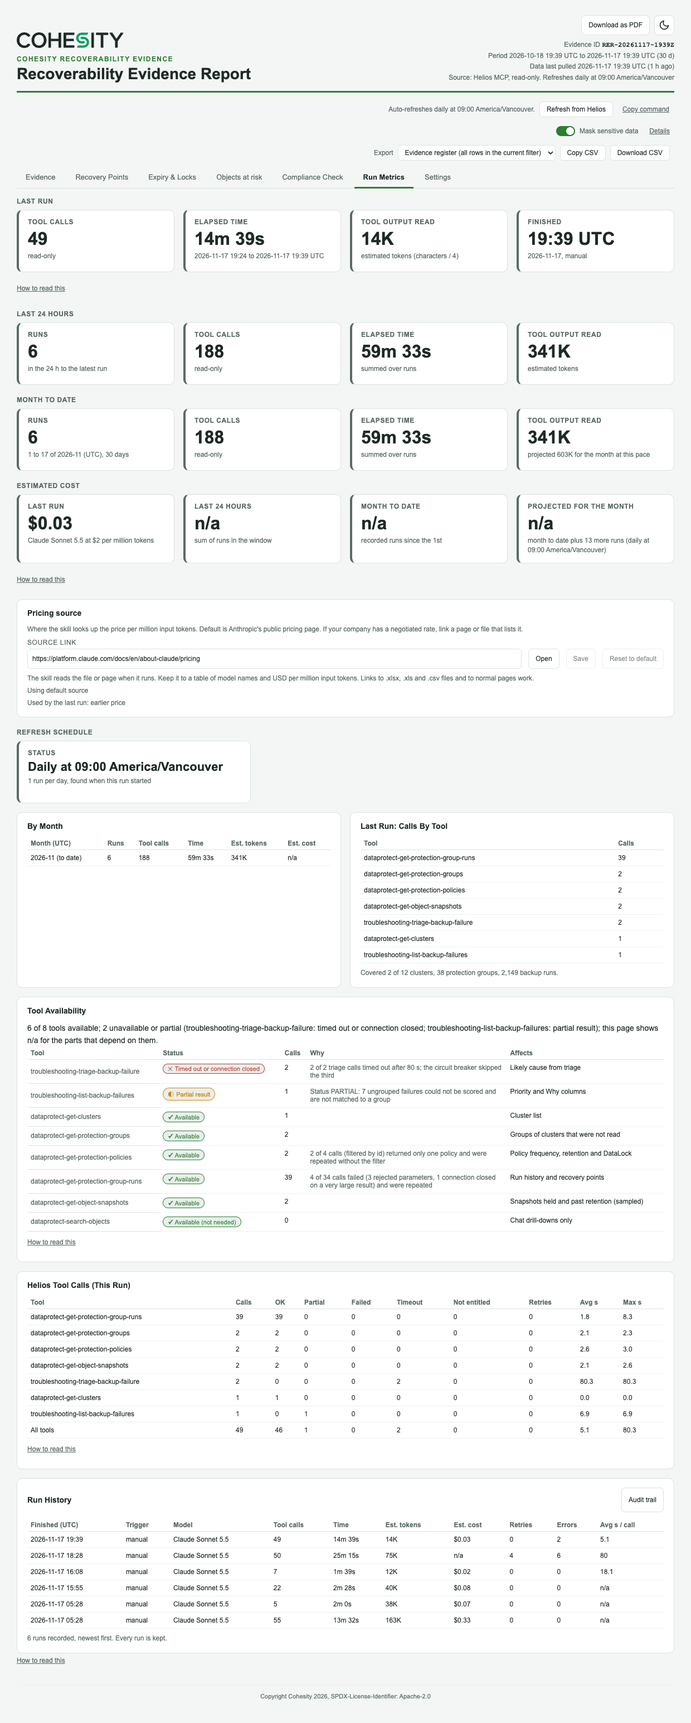
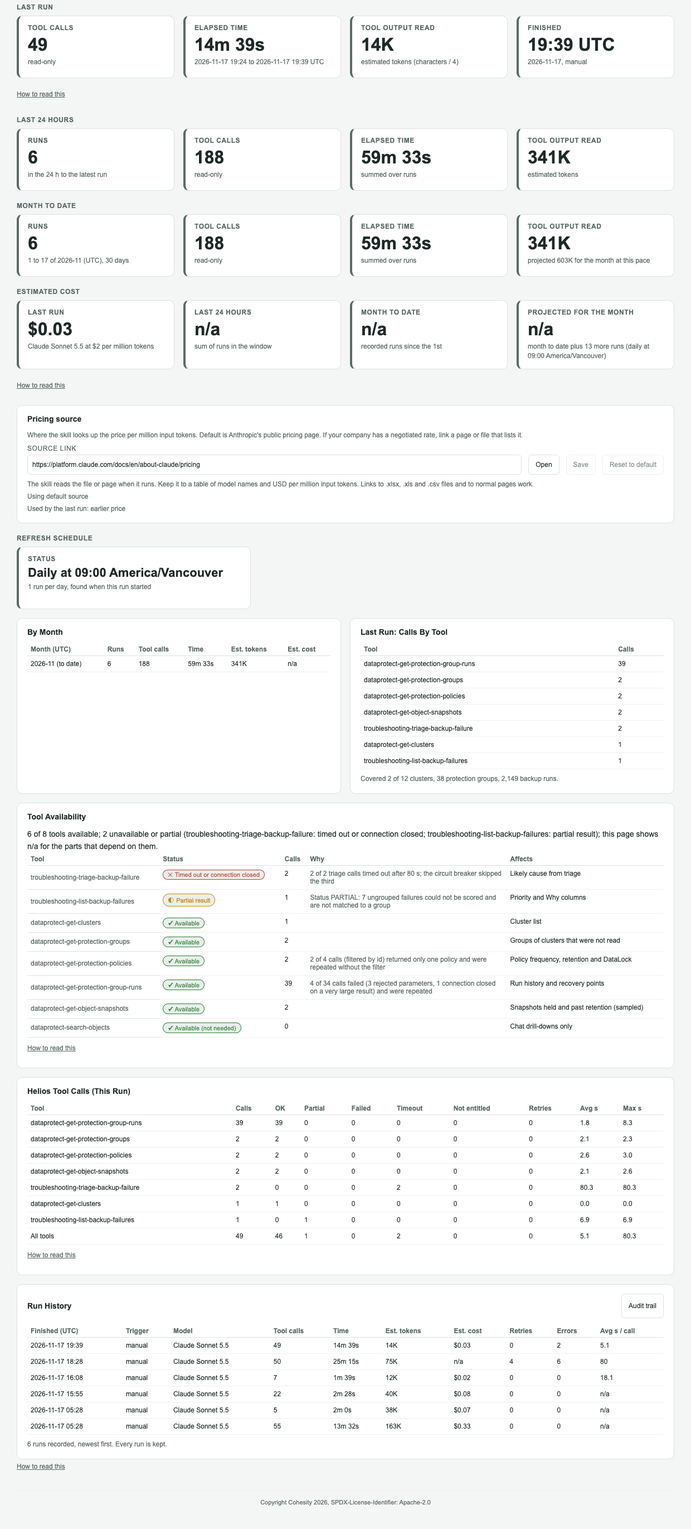
Shared screenshots cropped below tab bar, Fleet-style Run Metrics, Compliance pager

diff --git a/claude/Cohesity-Chargeback-Report/SKILL.md b/claude/Cohesity-Chargeback-Report/SKILL.md
@@ -447,13 +447,6 @@ td.ovr{font-weight:700}
 .dim{color:var(--muted)}
 .empty{padding:22px;color:var(--muted);text-align:center}
 .foot{font-size:12px;color:var(--muted);line-height:1.6;margin-top:14px;max-width:110ch}
-.avc{display:inline-flex;gap:6px;align-items:center;border:1px solid var(--border);border-radius:999px;padding:2px 10px;font-size:12px;font-weight:600;white-space:nowrap;color:var(--text)}
-.avc i{font-style:normal;font-weight:700}
-.avc.ok{border-color:var(--sel)}.avc.ok i{color:var(--sel)}
-.avc.warn{border-color:var(--accent)}.avc.warn i{color:var(--accent)}
-.avc.bad{border-color:var(--red,#c0392b)}.avc.bad i{color:var(--red,#c0392b)}
-.avc.na{border-style:dashed}
-#pane-meter td.avw{max-width:340px;overflow-wrap:anywhere;color:var(--muted)}
 .errbar{background:var(--card,#fff);color:var(--red,#c0392b);border:1px solid var(--red,#c0392b);border-left:4px solid var(--red,#c0392b);border-radius:8px;padding:10px 14px;margin:0 0 16px;font-size:13px;line-height:1.5}
 .rfr{display:flex;justify-content:flex-end;align-items:center;gap:8px;flex-wrap:wrap;margin:0 0 12px;font-size:12px;color:var(--muted,#5b6a67)}.rfr button,.rfr a.rfbtn{background:var(--card,#fff);color:var(--text,#1f2a28);border:1px solid var(--border,#dbe3e0);border-radius:6px;padding:6px 12px;font-size:12px;cursor:pointer}.rfr button:focus-visible,.rfr a.rfbtn:focus-visible{outline:2px solid var(--green,#2e7d32);outline-offset:2px}.rfr a.rfbtn{display:inline-block;text-decoration:none;font-family:system-ui,-apple-system,"Segoe UI",Arial,sans-serif;line-height:normal}.rfr button:disabled{opacity:.55;cursor:not-allowed}#rfc{background:transparent;border-color:transparent;color:var(--muted,#5b6a67);text-decoration:underline}.rfr input{font:12px "Courier New",monospace;background:var(--card,#fff);color:var(--text,#1f2a28);border:1px solid var(--border,#dbe3e0);border-radius:6px;padding:5px 8px;width:300px;max-width:100%}
 .tabs{display:flex;flex-wrap:wrap;gap:0 4px;border-bottom:1px solid var(--border);margin-bottom:16px;overflow:visible}
@@ -467,7 +460,7 @@ td.ovr{font-weight:700}
 .sub{font-size:12px;color:var(--muted)}
 #pane-comp .cwhy{font-size:13px;line-height:1.6;margin:0 0 10px;max-width:900px}
 #pane-comp .cmh{margin:10px 0 6px;font-size:13px;font-weight:600;color:var(--text)}
-#pane-comp .tw,#pane-meter .tw{border:0;border-radius:0;background:none}#pane-comp table{min-width:0}
+#pane-comp .tw{border:0;border-radius:0;background:none}#pane-comp table{min-width:0}
 #pane-comp td.sv{font-weight:700;white-space:nowrap}#pane-comp td.sv.critical,#pane-comp td.sv.high{color:var(--red)}#pane-comp td.sv.medium,#pane-comp td.sv.low{color:var(--amber)}
 #pane-comp td.cx{font-family:ui-monospace,"SF Mono",Menlo,Consolas,monospace;font-size:11px;overflow-wrap:anywhere;max-width:260px}
 #pane-comp td.wy{max-width:280px;color:var(--muted)}
@@ -499,9 +492,6 @@ body.pdfmode .cfpg{display:none!important}
 #gt{width:90px;border-radius:8px;border-left:1px solid var(--border)}
 .sec{margin:20px 0 8px;font-size:12px;font-weight:600;color:var(--muted);text-transform:uppercase;letter-spacing:.05em}
 .sec:first-child{margin-top:0}
-#pane-meter .foot{max-width:none}
-#pane-meter table{min-width:0}
-#pane-meter td.num{font-variant-numeric:tabular-nums;white-space:nowrap}
 header{display:flex;justify-content:space-between;align-items:flex-end;gap:16px;flex-wrap:wrap;padding-bottom:14px;border-bottom:3px solid var(--green);margin-bottom:16px}
 .meta{text-align:right;font-size:12px;color:var(--muted);line-height:1.6}
 .hr{display:flex;flex-direction:column;align-items:flex-end;gap:8px}
@@ -664,9 +654,6 @@ a.set-btn{text-decoration:none;box-sizing:border-box;text-align:center}
 }
 @media print{#set-dlg,.dlg-ov{display:none!important}}
 /* Audit trail pop-up and Pricing source card (tokens only) */
-.card .chd{display:flex;flex-wrap:wrap;align-items:center;justify-content:space-between;gap:8px 16px;margin:0 0 10px}.card .chd h2{margin:0}
-.abtn{background:var(--card,#fff);color:var(--text,#1f2a28);border:1px solid var(--border,#dbe3e0);border-radius:6px;padding:6px 12px;min-height:44px;font:inherit;font-size:12px;cursor:pointer}
-.abtn:hover:not(:disabled){background:var(--hover,#f2f7f5)}.abtn:focus-visible{outline:2px solid var(--sel,#1f7a6d);outline-offset:2px}.abtn:disabled{opacity:.55;cursor:not-allowed}
 body.aud-lock{overflow:hidden}
 #aud-dlg,#aud-dlg *{box-sizing:border-box}
 #aud-dlg{padding:0;border:1px solid var(--border,#dbe3e0);border-radius:10px;background:var(--card,#fff);color:var(--text,#1f2a28);width:calc(100% - 24px);max-width:1100px;max-height:calc(100% - 24px);font-size:13px;line-height:1.55}
@@ -705,31 +692,76 @@ body.aud-lock{overflow:hidden}
 #aud-dlg .aud-f{flex:none;display:flex;flex-wrap:wrap;gap:8px;align-items:center;justify-content:flex-end;padding:12px 18px;border-top:1px solid var(--border,#dbe3e0);background:var(--card,#fff)}
 #aud-dlg .aud-f .aud-dm{margin-right:auto;font-size:12px;color:var(--muted,#5b6a67)}
 @media(max-width:700px){#aud-dlg .aud-h,#aud-dlg .aud-b,#aud-dlg .aud-f{padding:12px}#aud-dlg .afb label{flex:1 1 100%}#aud-dlg .afb select,#aud-dlg .afb input{min-height:44px;width:100%}#aud-dlg .afb .abtn{width:100%}#aud-dlg .aud-f .abtn{flex:1 1 100%}}
-.prc .fbar{display:flex;flex-wrap:wrap;gap:8px 12px;align-items:flex-end;margin:8px 0}
-.prc .fbar label{flex:1 1 320px;min-width:0;font-size:12px;letter-spacing:.05em;text-transform:uppercase;color:var(--muted);display:flex;flex-direction:column;gap:4px}
-.prc .fbar input{width:100%;min-height:36px;min-width:0;max-width:100%;background:var(--card);color:var(--text);border:1px solid var(--border);border-radius:6px;padding:6px 8px;font:inherit;font-size:12px;text-transform:none;letter-spacing:0}
-.prc .fbar input:focus-visible{outline:2px solid var(--sel);outline-offset:2px}
-.prc input[readonly]{opacity:.8}
-.prc p.sub{margin:4px 0 0;line-height:1.5;overflow-wrap:anywhere}
-#pane-meter .btn,#pane-meter .btn.aub{display:inline-flex;align-items:center;min-height:36px;padding:6px 12px;border:1px solid var(--border);border-radius:6px;background:var(--card);color:var(--text);font:inherit;font-size:12px;font-weight:400;text-decoration:none;cursor:pointer}
-#pane-meter .btn:hover:not(:disabled){background:var(--hover)}
-#pane-meter .btn:focus-visible{outline:2px solid var(--sel);outline-offset:2px}
-#pane-meter .btn:disabled{opacity:.55;cursor:not-allowed}
-#pane-meter .btn[hidden]{display:none}
-#pane-meter table{font-size:12px;min-width:0}
-#pane-meter th{font-size:12px;font-weight:600;letter-spacing:0;text-transform:none;color:var(--muted);padding:4px 6px;border-bottom:1px solid var(--border);white-space:nowrap}
-#pane-meter td{padding:7px 6px;border-bottom:1px solid var(--rule);vertical-align:top}
-#pane-meter .tw.sc{max-height:460px}
-#pane-meter .card h2{margin:0 0 12px;font-size:14px;font-weight:700}
-#pane-meter .chd{gap:12px;margin:0 0 12px}
-#pane-meter .foot{margin-top:8px;font-size:12px;line-height:1.6}
-#pane-meter td.mo{white-space:nowrap;min-width:9.5em;font-variant-numeric:tabular-nums}
-#pane-meter tr.tot td{font-weight:700}
 details.how>summary{display:inline-flex;align-items:center;list-style:none;padding:0 2px}
 details.how>summary::-webkit-details-marker{display:none}
 details.how>summary::before{content:"\25B8";display:inline-block;margin-right:6px}
 details.how[open]>summary::before{content:"\25BE"}
-@media(max-width:600px){#pane-meter .btn,#pane-meter .btn.aub{min-height:44px}.prc .fbar .btn{flex:1 1 auto}details.how>summary{min-height:44px}}
+@media(max-width:600px){details.how>summary{min-height:44px}}
+/* Run Metrics pane: the Fleet Health rules (same declarations; Fleet's page-wide selectors are prefixed with :where(#pane-meter) so the specificity order inside the pane is Fleet's) */
+#pane-meter,#aud-dlg{font-family:Arial,Helvetica,sans-serif}
+:where(#pane-meter) p{font-size:13px;line-height:1.55;margin:0}
+:where(#pane-meter) .grid{display:grid;gap:16px;margin:0 0 16px}
+:where(#pane-meter) .g2{grid-template-columns:repeat(2,minmax(0,1fr))}
+@media(max-width:900px){:where(#pane-meter) .g2{grid-template-columns:repeat(2,minmax(0,1fr))}}
+@media(max-width:600px){:where(#pane-meter) .g2{grid-template-columns:minmax(0,1fr)}}
+:where(#pane-meter) .card{background:var(--card);border:1px solid var(--border);border-radius:10px;padding:16px 18px;min-width:0;margin:0}
+:where(#pane-meter) .card h2{margin:0 0 12px;font-size:14px;font-weight:700}
+:where(#pane-meter) .sub{font-size:12px;color:var(--muted)}
+:where(#pane-meter) .tw{overflow-x:auto;border:0;border-radius:0;background:none}
+:where(#pane-meter) table{width:100%;border-collapse:collapse;font-size:12px;min-width:0}
+:where(#pane-meter) th{text-align:left;color:var(--muted);font-weight:600;padding:4px 6px;border-bottom:1px solid var(--border);font-size:inherit;letter-spacing:normal;text-transform:none}
+:where(#pane-meter) td{padding:7px 6px;border-bottom:1px solid var(--rule);vertical-align:top}
+:where(#pane-meter) td.num{font-variant-numeric:tabular-nums;white-space:nowrap}
+:where(#pane-meter) td.msg{max-width:300px;color:var(--muted);overflow-wrap:anywhere}
+:where(#pane-meter) .chip{display:inline-block;background:var(--chip);border:1px solid var(--border);border-radius:999px;padding:2px 8px;font-size:11px;white-space:nowrap}
+:where(#pane-meter) .chip.hot{border-color:var(--red);color:var(--red)}
+:where(#pane-meter) .triage{margin-bottom:16px}
+:where(#pane-meter) .fbar{display:flex;flex-wrap:wrap;gap:8px 12px;align-items:flex-end;margin:0 0 10px}
+:where(#pane-meter) .fbar label{font-size:12px;font-weight:600;letter-spacing:.05em;text-transform:uppercase;color:var(--muted);display:flex;flex-direction:column;gap:4px}
+:where(#pane-meter) .fbar select,:where(#pane-meter) .fbar input{background:var(--card);color:var(--text);border:1px solid var(--border);border-radius:6px;padding:6px 8px;font:inherit;font-size:12px;min-width:0;max-width:100%}
+:where(#pane-meter) .fbar input{width:170px}
+:where(#pane-meter) .fbar select:focus-visible,:where(#pane-meter) .fbar input:focus-visible{outline:2px solid var(--green);outline-offset:2px}
+:where(#pane-meter) .tw.sc{max-height:440px;overflow:auto}
+:where(#pane-meter) .tw.sc thead th{position:sticky;top:0;background:var(--card);z-index:1}
+:where(#pane-meter) .foot{font-size:11px;color:var(--muted);margin-top:8px;line-height:1.6;max-width:none}
+:where(#pane-meter) .kit.stat{margin:0}
+:where(#pane-meter) td.gn{font-weight:600;overflow-wrap:anywhere}
+:where(#pane-meter) .chip.amb{border-color:var(--amber);color:var(--amber)}
+:where(#pane-meter) .chip.ok{border-color:var(--green);color:var(--green)}
+:where(#pane-meter) .full{margin-bottom:16px}
+:where(#pane-meter) th{white-space:nowrap}
+:where(#pane-meter) #mbm td:first-child{white-space:nowrap;min-width:116px}
+:where(#pane-meter) #tas,:where(#pane-meter) #mavs{margin:0 0 8px;line-height:1.5}
+:where(#pane-meter) tr.tot td{font-weight:700}
+:where(#pane-meter) #mman{margin:8px 0 0}
+:where(#pane-meter) details.how{margin:0 0 16px;border:1px solid var(--border);border-radius:10px;background:var(--card);padding:0 14px;font-size:inherit;color:inherit}
+:where(#pane-meter) details.how>summary{display:flex;align-items:center;min-height:44px;cursor:pointer;list-style:none;font-size:12px;color:var(--muted);padding:0;margin:0}
+:where(#pane-meter) details.how[open]>summary{margin-bottom:0}
+:where(#pane-meter) details.how>summary::-webkit-details-marker{display:none}
+:where(#pane-meter) details.how>summary::before{content:"\25B8";display:inline-block;width:14px;margin-right:0;color:var(--muted)}
+:where(#pane-meter) details.how[open]>summary::before{content:"\25BE"}
+:where(#pane-meter) details.how>summary:focus-visible{outline:2px solid var(--green);outline-offset:2px;border-radius:4px}
+:where(#pane-meter) details.how>.foot,:where(#pane-meter) details.how>p{margin:0 0 12px}
+:where(#pane-meter) .card details.how{border:0;background:none;padding:0;margin:6px 0 0}
+:where(#pane-meter) .card details.how>.foot{margin:0 0 6px}
+/* Audit trail button, Pricing source card (Fleet) */
+.chh{display:flex;justify-content:space-between;align-items:center;gap:12px;flex-wrap:wrap;margin:0 0 12px}.chh h2{margin:0!important}
+.abtn{display:inline-flex;align-items:center;justify-content:center;min-height:36px;padding:6px 12px;background:var(--card);color:var(--text);border:1px solid var(--border);border-radius:6px;font:inherit;font-size:12px;line-height:1.3;text-decoration:none;cursor:pointer}
+.abtn:hover:not(:disabled){background:var(--hover)}
+.abtn:focus-visible{outline:2px solid var(--green);outline-offset:2px}
+.abtn:disabled{opacity:.55;cursor:not-allowed}
+.abtn.pri{background:var(--green);color:var(--bg);border-color:var(--green);font-weight:700}
+a.abtn:visited{color:var(--text)}a.abtn.off{opacity:.55;pointer-events:none}
+.prc .fbar{align-items:flex-end;margin:8px 0}
+.prc .fbar label{flex:1 1 320px;min-width:0}
+.prc .fbar input{width:100%;min-height:36px}
+.prc .abtn:disabled{opacity:.55;cursor:not-allowed}
+.prc input[readonly]{opacity:.8}
+.prc p.sub{margin:4px 0 0;line-height:1.5;overflow-wrap:anywhere}
+.prc p.sub.bad{font-weight:700;color:var(--red)}
+@media(max-width:600px){.abtn{min-height:44px}.prc .fbar .abtn{flex:1 1 auto}}
+#aud-dlg .abtn{min-height:44px}
+body.pdfmode .abtn{display:none!important}
 body.pdfmode .prc .fbar,body.pdfmode .prc #prc-h,body.pdfmode .prc #prc-ro{display:none!important}
 @media print{.prc .fbar{display:none!important}}
 body.pdfmode #aud-dlg,body.pdfmode .aud-ov,body.pdfmode .pdfhid{display:none!important}
@@ -977,24 +1009,24 @@ if(rc)rc.addEventListener('click',function(){
 </details>
 </div>
 <div class="pane" id="pane-meter" role="tabpanel" aria-labelledby="tabm" hidden>
-<h3 class="sec">Last run</h3><div class="kit" id="ml"></div>
-<h3 class="sec">Last 24 hours</h3><div class="kit" id="md"></div>
-<h3 class="sec" id="mmh">Month to date</h3><div class="kit" id="mm"></div>
-<h3 class="sec">Estimated cost</h3><div class="kit" id="cc"></div><details class="how"><summary>How to read this</summary><div class="foot" id="cn"></div></details>
-<div class="card prc" id="prc"><h2>Pricing source</h2>
+<h3 class="sec">Last run</h3><div class="kit stat" id="ml"></div>
+<h3 class="sec">Last 24 hours</h3><div class="kit stat" id="md"></div>
+<h3 class="sec" id="mmh">Month to date</h3><div class="kit stat" id="mm"></div>
+<h3 class="sec">Estimated cost</h3><div class="kit stat" id="cc"></div><details class="how"><summary>How to read this</summary><div class="foot" id="cn"></div></details>
+<div class="card full prc" id="prc"><h2>Pricing source</h2>
 <p class="sub" id="prc-d">Where the skill looks up the price per million input tokens. Default is Anthropic's public pricing page. If your company has a negotiated rate, link a page or file that lists it.</p>
-<div class="fbar"><label for="prc-u">Source link<input id="prc-u" type="text" inputmode="url" autocomplete="off" spellcheck="false" value="https://platform.claude.com/docs/en/about-claude/pricing" aria-describedby="prc-h prc-st"></label><a class="btn" id="prc-o" href="https://platform.claude.com/docs/en/about-claude/pricing" target="_blank" rel="noopener noreferrer">Open</a><button type="button" class="btn" id="prc-s" disabled>Save</button><button type="button" class="btn" id="prc-r" disabled>Reset to default</button></div>
+<div class="fbar"><label for="prc-u">Source link<input id="prc-u" type="text" inputmode="url" autocomplete="off" autocapitalize="off" spellcheck="false" value="https://platform.claude.com/docs/en/about-claude/pricing" aria-describedby="prc-h prc-st"></label><a class="abtn" id="prc-o" href="https://platform.claude.com/docs/en/about-claude/pricing" target="_blank" rel="noopener noreferrer">Open</a><button type="button" class="abtn" id="prc-s" disabled>Save</button><button type="button" class="abtn" id="prc-r" disabled>Reset to default</button></div>
 <p class="sub" id="prc-h">The skill reads the file or page when it runs. Keep it to a table of model names and USD per million input tokens. Links to .xlsx, .xls and .csv files and to normal pages work.</p>
 <p class="sub" id="prc-ro" hidden>Only people who can edit this page can change it.</p>
-<p class="sub" id="prc-st" role="status">Using default source</p>
+<p class="sub" id="prc-st" role="status" aria-live="polite">Using default source</p>
 <p class="sub" id="prc-l">Used by the last run: not recorded</p></div>
 <div class="grid g2">
 <div class="card"><h2>By Month</h2><div class="tw sc"><table><thead><tr><th>Month (UTC)</th><th>Runs</th><th>Tool calls</th><th>Time</th><th>Est. tokens</th><th>Est. cost</th></tr></thead><tbody id="mbm"></tbody></table></div></div>
 <div class="card"><h2>Last Run: Calls By Tool</h2><div class="tw sc"><table><thead><tr><th>Tool</th><th>Calls</th></tr></thead><tbody id="mt"></tbody></table></div><div class="foot" id="mc"></div></div>
 </div>
-<div class="card"><h2>Tool Availability</h2><p class="sub" id="mavs"></p><div class="tw sc"><table><thead><tr><th scope="col">Tool</th><th scope="col">Status</th><th scope="col">Calls</th><th scope="col">Why</th><th scope="col">Affects</th></tr></thead><tbody id="mav"></tbody></table></div><details class="how"><summary>How to read this</summary><div class="foot" id="mavf"></div></details></div>
-<div class="card"><h2>Helios Tool Calls (This Run)</h2><div class="tw sc"><table><thead><tr><th>Tool</th><th>Calls</th><th>OK</th><th>Partial</th><th>Failed</th><th>Timeout</th><th>Not entitled</th><th>Retries</th><th>Avg s</th><th>Max s</th></tr></thead><tbody id="mtt"></tbody></table></div><details class="how"><summary>How to read this</summary><div class="foot" id="mtc"></div></details></div>
-<div class="card"><div class="chd"><h2>Run History</h2><button type="button" class="btn aub" id="aud-open" aria-haspopup="dialog">Audit trail</button></div><div class="tw sc"><table><thead><tr><th>Finished (UTC)</th><th>Trigger</th><th>Model</th><th>Tool calls</th><th>Time</th><th>Est. tokens</th><th>Est. cost</th><th>Retries</th><th>Errors</th><th>Avg s / call</th></tr></thead><tbody id="mh"></tbody></table></div><div class="foot" id="mhf"></div></div>
+<div class="card full" id="avc"><h2>Tool Availability</h2><p class="sub" id="mavs"></p><div class="tw sc"><table><thead><tr><th scope="col">Tool</th><th scope="col">Status</th><th scope="col">Calls</th><th scope="col">Why</th><th scope="col">Affects</th></tr></thead><tbody id="mav"></tbody></table></div><details class="how"><summary>How to read this</summary><div class="foot" id="mavf"></div></details></div>
+<div class="card full"><h2>Helios Tool Calls (This Run)</h2><div class="tw sc"><table><thead><tr><th>Tool</th><th>Calls</th><th>OK</th><th>Partial</th><th>Failed</th><th>Timeout</th><th>Not entitled</th><th>Retries</th><th>Avg s</th><th>Max s</th></tr></thead><tbody id="mtt"></tbody></table></div><details class="how"><summary>How to read this</summary><div class="foot" id="mtc"></div></details></div>
+<div class="card triage"><div class="chh"><h2>Run History</h2><button type="button" class="abtn" id="aud-open" aria-haspopup="dialog">Audit trail</button></div><div class="tw sc"><table><thead><tr><th>Finished (UTC)</th><th>Trigger</th><th>Model</th><th>Tool calls</th><th>Time</th><th>Est. tokens</th><th>Est. cost</th><th>Retries</th><th>Errors</th><th>Avg s / call</th></tr></thead><tbody id="mh"></tbody></table></div><div class="foot" id="mhf"></div></div>
 <details class="how"><summary>How to read this</summary><div class="foot">Counts cover data collection, up to the start of publishing. The model cannot read its own token meter, so tokens are the size of the tool output divided by 4, an estimate. The total that the model processes is several times larger, because it reads the conversation again at each step. For measured usage, open Settings &gt; Usage in Claude. Windows end at the latest run, not at the time you open the page.</div><div class="foot" id="mhwhy">Why the number of tool calls changes from run to run. It follows how much the run has to read, not a fixed routine. 1) Full or incremental: where a skill supports it, a full pull reads everything and an incremental refresh reads only what changed since the last pull, so the count can fall from dozens of calls to a handful. 2) Size of the estate: each cluster, protection group or view that is read costs about one call, so more clusters or groups means more calls. 3) Retries: a call that times out is retried once, and the retry counts as a call. 4) Optional steps: Cohesity AI agent calls (when switched on in Settings) and drill-downs into groups that failed add calls. 5) Limits: a run stops at its call cap or after repeated timeouts to protect Helios, so a run that hits a limit shows fewer calls and says so in its scope note. The scope note under the report tabs names the path (full or incremental) and the counts for the latest run.</div></details>
 <div class="foot" id="mman" hidden></div>
 </div>
@@ -2060,7 +2092,7 @@ function meter(){
  cards('cc',[['Last run',money(cL),(L.model||'model not recorded')+(price(L)!==null?' at $'+price(L)+' per million tokens'+(L.psrc==='custom'?' (custom source)':''):'')],['Last 24 hours',known?money(cD):'n/a','sum of runs in the window'],['Month to date',known?money(cM):'n/a','recorded runs since the 1st'],['Projected for the month',known?money(cM+(SC&&SC.perDay>0?(cM/Math.max(1,H.filter(function(x){return x.t.slice(0,7)===mk}).length))*SC.perDay*(dim-day):0)):'n/a',SC&&SC.perDay>0?'month to date plus '+Math.round(SC.perDay*(dim-day))+' more runs ('+(SC.label||SC.perDay+' per day')+')':'no schedule found, so no further runs are projected']]);
  $('cn').textContent='Cost = estimated tokens of tool output the model read x the price per million input tokens of the model that ran. The projection adds the average cost per run times the runs left in the month on the schedule found when the run started; with no schedule it adds nothing. Prices are read at run time from the source in the Pricing source card below (default: the Anthropic pricing page) and are stored with each run, with the source used. It does not include output tokens, caching discounts or the conversation the model re-reads at each step; Settings > Usage shows measured cost.';
  var by={};H.forEach(function(x){var k=x.t.slice(0,7);(by[k]=by[k]||[]).push(x)});
- var bm=$('mbm');bm.textContent='';Object.keys(by).sort().reverse().forEach(function(k){var r=sum(by[k]),tr=el('tr');tr.appendChild(el('td','mo',k+(k===mk?' (to date)':'')));var ck=true,cs=0;by[k].forEach(function(x){var c=cost(x);if(c===null)ck=false;else cs+=c});[String(r.runs),fmt(r.calls),dur(r.sec),tok(r.tok),ck?money(cs):'n/a'].forEach(function(v){tr.appendChild(el('td','num',v))});bm.appendChild(tr)});
+ var bm=$('mbm');bm.textContent='';Object.keys(by).sort().reverse().forEach(function(k){var r=sum(by[k]),tr=el('tr');tr.appendChild(el('td','',k+(k===mk?' (to date)':'')));var ck=true,cs=0;by[k].forEach(function(x){var c=cost(x);if(c===null)ck=false;else cs+=c});[String(r.runs),fmt(r.calls),dur(r.sec),tok(r.tok),ck?money(cs):'n/a'].forEach(function(v){tr.appendChild(el('td','num',v))});bm.appendChild(tr)});
  var mh=$('mh');mh.textContent='';H.slice().reverse().forEach(function(x){var tr=el('tr');tr.appendChild(el('td','num',x.t.replace('T',' ').replace('Z','')));tr.appendChild(el('td','',x.src||''));tr.appendChild(el('td','',x.model||'not recorded'));[fmt(x.calls),dur(x.sec),tok(x.tok),money(cost(x)),typeof x.ret==='number'?fmt(x.ret):'n/a',typeof x.err==='number'?fmt(x.err):'n/a',typeof x.avgS==='number'?x.avgS.toFixed(1):'n/a'].forEach(function(v){tr.appendChild(el('td','num',v))});mh.appendChild(tr)});
  $('mhf').textContent=H.length+' run'+(H.length>1?'s':'')+' recorded, newest first. Every run is kept.';
  var mt=$('mt');mt.textContent='';if(M){var b=M.byTool||{};Object.keys(b).sort(function(p,q){return b[q]-b[p]}).forEach(function(k){var r=el('tr');r.appendChild(el('td','',k));r.appendChild(el('td','num',String(b[k])));mt.appendChild(r)});
@@ -2089,7 +2121,7 @@ function toolsMeter(){
  function fmt(n){return Number(n).toLocaleString('en-US')}
  function num(v){return typeof v==='number'&&isFinite(v)}
  function f1(v){return num(v)?v.toFixed(1):'n/a'}
- function cell(tr,v,c){tr.appendChild(el('td',c||'num',v))}
+ function cell(tr,v,c){tr.appendChild(el('td',c===undefined?'num':c,v))}
  if(!T){cp.textContent=M?'Per-call timing was not recorded for this run, so it shows n/a.':'No run recorded.'}
  else{
   var g={},ord=[],rows=T.slice(0,400);
@@ -2098,7 +2130,7 @@ function toolsMeter(){
   var tot={n:0,ok:0,pa:0,fa:0,to:0,ne:0,re:0,ss:0,sn:0,mx:null};
   ord.concat(['']).forEach(function(k){var r=k===''?tot:g[k],tr=el('tr');
    if(k!==''){['n','ok','pa','fa','to','ne','re','ss','sn'].forEach(function(f){tot[f]+=r[f]});if(r.mx!==null&&(tot.mx===null||r.mx>tot.mx))tot.mx=r.mx}
-   cell(tr,k===''?'All tools':(window.__mask?window.__mask(k):k),'');[fmt(r.n),fmt(r.ok),fmt(r.pa),fmt(r.fa),fmt(r.to),fmt(r.ne),fmt(r.re),r.sn?f1(r.ss/r.sn):'n/a',f1(r.mx)].forEach(function(v){cell(tr,v)});if(k==='')tr.className='tot';tb.appendChild(tr)});
+   cell(tr,k===''?'All tools':(window.__mask?window.__mask(k):k),k===''?'':'gn');[fmt(r.n),fmt(r.ok),fmt(r.pa),fmt(r.fa),fmt(r.to),fmt(r.ne),fmt(r.re),r.sn?f1(r.ss/r.sn):'n/a',f1(r.mx)].forEach(function(v){cell(tr,v)});if(k==='')tr.className='tot';tb.appendChild(tr)});
   cp.textContent='Seconds are the wall-clock of the batch the call ran in, measured with the system clock before and after each batch of parallel calls; calls in one batch share one figure, so do not add them up or read them as server time (the figure includes the short model turn between the two clock reads, so it is an upper bound). '+rows.length+' call rows recorded'+(num(M.calls)?' for '+M.calls+' calls counted':'')+(T.length>400?' (first 400 shown)':'')+'. Calls with another outcome (empty) count under Calls only.'}
 }
 var MKX;try{MKX=(function(){
@@ -2149,10 +2181,10 @@ function availMeter(){
  var okN=0,pa=0,un=[],nc=0;L.forEach(function(r){if(r.st==='ok')okN++;else if(r.st==='partial'){okN++;pa++}else if(down(r))un.push(String(r.t||'unknown').slice(0,80)+(r.rep?' for '+String(r.rep).slice(0,60):''));else nc++});
  sm.textContent=mx(okN+' of '+L.length+' tools available'+(pa?' ('+pa+' with a partial result)':'')+'; '+un.length+' unavailable'+(un.length?' ('+un.join(', ')+')':'')+(nc?'; '+nc+' not checked':'')+(un.length?'; this page shows n/a for the parts that depend on them.':'.'));
  L.forEach(function(r){var tr=el('tr'),c=down(r)&&r.st!=='skipped'?'bad':r.st==='partial'||r.st==='skipped'?'warn':r.st==='ok'?'ok':'na',ic=c==='bad'?'\u2715':c==='warn'?'!':c==='ok'?'\u2713':'?';
-  tr.appendChild(el('td','',mx(nm(r))));
-  var sc=el('td'),ch=el('span','avc '+c);ch.appendChild(el('i','',ic)).setAttribute('aria-hidden','true');ch.appendChild(document.createTextNode(avLabel(r)));sc.appendChild(ch);tr.appendChild(sc);
+  tr.appendChild(el('td','gn',mx(nm(r))));
+  var sc=el('td'),ch=el('span','chip avc '+c+(c==='bad'?' hot':c==='warn'?' amb':c==='ok'?' ok':''));ch.appendChild(document.createTextNode(ic+' '+avLabel(r)));sc.appendChild(ch);tr.appendChild(sc);
   tr.appendChild(el('td','num',typeof r.n==='number'&&isFinite(r.n)?fmt(r.n):'n/a'));
-  var w=avWhy(r.why);tr.appendChild(el('td','avw',w?mx(w):'-'));
+  var w=avWhy(r.why);tr.appendChild(el('td','msg',w?mx(w):'-'));
   var a=aff(r);tr.appendChild(el('td','',a.length?mx(a.join(', ')):'-'));tb.appendChild(tr)});
  ft.textContent='One row per tool; the report preview tool is listed once per report it read. Status comes from the answer or the error text of each call. A tool that did not answer shows its reason, and the parts of the tabs that depend on it show n/a.'}
 try{availMeter()}catch(e){}
@@ -2234,56 +2266,64 @@ var AUDX=(function(){
  if(dlg){build();var ob=$('aud-open');if(ob)ob.addEventListener('click',open)}
  return{rows:function(){return ROWS},csv:csvText,all:function(){return csvRows(ROWS.slice().sort(function(x,y){return(x.t<y.t?-1:x.t>y.t?1:x.i-y.i)*-1}))},open:open,close:close,filt:filt}})();
 function audAllRows(){return AUDX&&AUDX.all?AUDX.all():[['time_utc']]}
-/* Pricing source card: the page only stores the link in settings/pricing; the skill reads it at run time. */
-var PRC=(function(){
- var DEF='https://platform.claude.com/docs/en/about-claude/pricing',MAXL=500,inp=$('prc-u'),sv=$('prc-s'),rs=$('prc-r'),op=$('prc-o'),st=$('prc-st'),ro=$('prc-ro');
- if(!inp||!sv||!rs||!op||!st)return null;
- var S={saved:null,db:null,u:null,ready:false,can:false,dirty:false,msg:'',err:'',busy:false};
- function check(v){v=String(v==null?'':v).trim();if(!v)return 'Enter a link that starts with https://.';
-  if(v.length>MAXL)return 'The link is longer than '+MAXL+' characters.';
-  if(/\s/.test(v))return 'The link must not contain spaces.';
-  if(!/^https:\/\//i.test(v))return 'The link must start with https://.';
-  if(/^https:\/\/[^\/?#]*@/i.test(v))return 'The link must not contain a user name or password.';
-  var u;try{u=new URL(v)}catch(e){return 'That is not a valid link.'}
-  if(u.username||u.password)return 'The link must not contain a user name or password.';
-  if(!u.hostname)return 'That is not a valid link.';return ''}
- function eff(){var s=S.saved;return s&&typeof s.url==='string'&&!check(s.url)?s.url.trim():DEF}
+/* PRICING-SOURCE: editable source for the price per million input tokens (Run Metrics). The page only stores the link in settings/pricing; it never fetches it. The skill reads it each run. */
+var PRC=null;try{PRC=(function(){
+ var DEF='https://platform.claude.com/docs/en/about-claude/pricing',card=$('prc');if(!card)return null;
+ var inp=$('prc-u'),sv=$('prc-s'),rs=$('prc-r'),op=$('prc-o'),st=$('prc-st'),ro=$('prc-ro'),la=$('prc-l');
+ var S={db:null,pend:true,doc:null,edit:null,signed:null,busy:false,msg:'',bad:false,dirty:false};
+ function chk(v){var t=String(v==null?'':v).trim();
+  if(!t)return 'Enter a link that starts with https://.';
+  if(t.length>500)return 'Use at most 500 characters.';
+  if(/\s/.test(t))return 'The link cannot contain spaces.';
+  if(!/^https:\/\//i.test(t))return 'The link must start with https://.';
+  var u;try{u=new URL(t)}catch(e){return 'This is not a valid link.'}
+  if(u.protocol!=='https:'||!u.hostname)return 'This is not a valid link.';
+  if(u.username||u.password||/^https:\/\/[^\/?#]*@/i.test(t))return 'Remove the user name and password from the link.';
+  return ''}
+ function snapDoc(s){try{if(!s)return null;if(typeof s.exists==='function'&&!s.exists())return null;if(typeof s.exists==='boolean'&&!s.exists)return null;
+  var d=typeof s.data==='function'?s.data():(s.data!==undefined?s.data:s);if(!d||typeof d!=='object'||typeof d.url!=='string'||chk(d.url))return null;
+  return{url:d.url.trim(),savedAt:typeof d.savedAt==='string'?d.savedAt:'',savedById:typeof d.savedById==='string'?d.savedById:'',savedByName:typeof d.savedByName==='string'?d.savedByName:''}}catch(e){return null}}
+ function eff(){return S.doc?S.doc.url:DEF}
+ function msk(s){s=s==null?'':String(s);try{return window.__mask?window.__mask(s):s}catch(e){return s}}
+ function nm(n){n=String(n||'').trim();if(!n)return '';var on=true;try{on=window.__maskOn?!!window.__maskOn():true}catch(e){}return on?n.split(/\s+/).map(function(w){return w.charAt(0)+'*'.repeat(Math.max(w.length-1,0))}).join(' '):n}
  function host(u){try{return new URL(u).hostname}catch(e){return ''}}
- function when(t){var m=/^(\d{4}-\d\d-\d\d)T(\d\d:\d\d)/.exec(String(t||''));return m?m[1]+' '+m[2]+' UTC':''}
- function nm(n){n=String(n||'').trim();if(!n)return '';if(window.__maskOn&&window.__maskOn())return n.split(/\s+/).map(function(w){return w.charAt(0)+'***'}).join(' ');return n}
- function status(){if(S.err)return S.err;if(S.msg)return S.msg;var e=check(inp.value);if(S.dirty&&e)return e;var u=eff();if(u===DEF)return 'Using default source';
-  var s0=S.saved||{},w=when(s0.savedAt),n=nm(s0.savedByName);return 'Using custom source: '+host(u)+(w?', saved '+w:'')+(n?' by '+n:'')}
- function ed(){return !!(S.ready&&S.u&&S.can&&S.db)}
- function render(){var e=ed();inp.readOnly=!e;if(!S.dirty&&document.activeElement!==inp)inp.value=eff();
-  var v=check(inp.value),same=inp.value.trim()===eff();
-  sv.disabled=!e||S.busy||!!v||same;rs.disabled=!e||S.busy||(eff()===DEF&&inp.value.trim()===DEF);
-  op.setAttribute('href',eff());if(ro)ro.hidden=!S.ready||e;
-  st.textContent=status()}
- function perm(x){var m=x&&(x.code||x.status||x.message||x);return /permission|denied|forbidden|unauthor|403|401|admin/i.test(String(m))}
- function who(){var u=S.u;if(!u||typeof u.id!=='function')return Promise.resolve(null);
-  return Promise.resolve().then(function(){return u.id()}).then(function(id){id=typeof id==='string'?id.trim():'';if(!id)return null;
-   var name='';return Promise.resolve().then(function(){return typeof u.me==='function'?u.me():null}).then(function(m){if(m&&typeof m==='object')name=String(m.name||m.displayName||m.fullName||'').trim()},function(){}).then(function(){return{id:id,name:name}})}).then(function(w){return w},function(){return null})}
- function save(url){if(!ed()||S.busy)return;S.busy=true;S.err='';S.msg='Saving.';render();
-  who().then(function(w){
-   if(!w){S.busy=false;S.msg='';S.err='Not saved: could not identify you. Sign in and try again.';render();return}
-   var o={url:url,savedAt:new Date().toISOString().replace(/\.\d+Z$/,'Z'),savedById:w.id,savedByName:w.name};
-   var p;try{p=S.db.doc('settings/pricing').set(o)}catch(x){p=Promise.reject(x)}
-   Promise.resolve(p).then(function(){S.busy=false;S.saved=o;S.dirty=false;S.err='';S.msg='Saved. Used on the next run.';inp.value=url;render()},
-    function(x){S.busy=false;S.msg='';S.err=perm(x)?'Not saved: only people who can edit this page can change it.':'Could not save. Nothing was changed. Try again later.';render()})})}
- inp.addEventListener('input',function(){S.msg='';S.err='';S.dirty=inp.value.trim()!==eff();render()});
- sv.addEventListener('click',function(){var u=inp.value.trim();if(check(u))return;save(u)});
- rs.addEventListener('click',function(){S.msg='';S.err='';if(eff()!==DEF){save(DEF);return}S.dirty=false;inp.value=DEF;render()});
- var mkb=$('mk');if(mkb)mkb.addEventListener('change',function(){render()});
- render();
- (async function(){try{var cl0=window.claude;if(!cl0||typeof cl0.use!=='function'){S.ready=true;render();return}
-  var u=null;try{u=await cl0.use('user')}catch(e){u=null}
-  S.u=u&&typeof u==='object'?u:null;if(S.u){try{S.can=typeof S.u.canEdit==='function'?S.u.canEdit()!==false:false}catch(e){S.can=false}}
-  var db=null;try{db=await cl0.use('db')}catch(e){db=null}
-  if(db&&typeof db.doc==='function'){S.db=db;
-   try{db.doc('settings/pricing').onSnapshot(function(s){var d=null;try{if(s&&(typeof s.exists==='function'?s.exists():s.exists!==false)){d=typeof s.data==='function'?s.data():s.data}}catch(e){d=null}
-     S.saved=d&&typeof d==='object'?d:null;if(/read the saved/.test(S.err))S.err='';render()},function(){S.err='Could not read the saved source. The default source is shown.';render()})}catch(e){}}
-  S.ready=true;render()}catch(e){S.ready=true;try{render()}catch(x){}}})();
- return{check:check,render:render}})();
+ function when(a){var m=/^(\d{4}-\d\d-\d\d)[T ](\d\d:\d\d)/.exec(String(a||''));return m?m[1]+' '+m[2]+' UTC':''}
+ function can(){return !!S.db&&S.signed===true&&S.edit!==false}
+ function lastRow(){var H=(D.meterHistory||[]).slice().sort(function(x,y){return x.t<y.t?-1:1});return H.length?H[H.length-1]:null}
+ function lastTxt(){var r=lastRow(),p=r&&typeof r.psrc==='string'?r.psrc:'';
+  var w=p==='default'?'default':p==='custom'?'custom'+(typeof r.phost==='string'&&r.phost?' ('+msk(r.phost)+')':''):p==='carried'?'earlier price':p==='none'?'none':'not recorded';return 'Used by the last run: '+w}
+ function paint(){var e=eff(),v=inp.value,t=v.trim(),err=chk(v),ok=can(),base;
+  if(!S.dirty&&v!==e)inp.value=v=e;
+  inp.readOnly=!ok||S.busy;
+  if(S.doc&&e!==DEF){base='Using custom source: '+msk(host(e))+(S.doc.savedAt?', saved '+when(S.doc.savedAt):'')+(S.doc.savedByName?' by '+nm(S.doc.savedByName):'')}else base='Using default source';
+  var msg=S.msg,bad=S.bad;if(!msg&&S.dirty&&err){msg=err;bad=true}
+  st.textContent=msg||base;st.className='sub'+(msg&&bad?' bad':'');
+  sv.disabled=!ok||S.busy||!!err||t===e;rs.disabled=!ok||S.busy||(e===DEF&&t===DEF);
+  var okOpen=!chk(e);if(okOpen){op.setAttribute('href',e);op.classList.remove('off');op.removeAttribute('aria-disabled')}else{op.removeAttribute('href');op.classList.add('off');op.setAttribute('aria-disabled','true')}
+  op.setAttribute('aria-label','Open the pricing source in a new tab');
+  var note='';if(S.pend||S.signed===null)note='Checking whether you can edit this page.';else if(!S.db)note='Saving needs the page database, which is not available in this view.';else if(!ok)note='Only people who can edit this page can change it.';
+  ro.textContent=note;ro.hidden=!note;la.textContent=lastTxt()}
+ function who(){return Promise.resolve().then(function(){var cl=window.claude;return cl&&typeof cl.use==='function'?cl.use('user'):null}).then(function(u){if(!u||typeof u.id!=='function')return null;
+  return Promise.resolve(u.id()).then(function(id){id=typeof id==='string'?id.trim():'';if(!id)return null;
+   return Promise.resolve(typeof u.me==='function'?u.me():null).then(function(me){me=me&&typeof me==='object'?me:{};var n=me.name||me.displayName||me.fullName||'';return{id:id,name:typeof n==='string'?n.trim().slice(0,120):''}},function(){return{id:id,name:''}})})}).then(function(w){return w},function(){return null})}
+ function permErr(e){return /not_granted|not_writer|permission|denied|forbidden|unauthori/i.test(String((e&&(e.code||''))+' '+(e&&e.message||'')))}
+ function write(url){if(!can()||S.busy)return;var err=chk(url);if(err){S.msg=err;S.bad=true;paint();return}
+  S.busy=true;S.msg='Saving.';S.bad=false;paint();
+  who().then(function(w){if(!w){S.busy=false;S.msg='Your identity could not be confirmed, so this cannot be saved from here.';S.bad=true;paint();return}
+   var o={url:url.trim(),savedAt:new Date().toISOString().replace(/\.\d+Z$/,'Z'),savedById:w.id,savedByName:w.name||''},p;
+   try{p=S.db.doc('settings/pricing').set(o)}catch(e){p=Promise.reject(e)}
+   Promise.resolve(p).then(function(){S.doc=snapDoc(o);S.busy=false;S.dirty=false;S.msg='Saved. Used on the next run.';S.bad=false;inp.value=o.url;paint()},
+    function(er){S.busy=false;S.bad=true;if(permErr(er)){S.edit=false;S.msg='Could not save: only people who can edit this page can change it.'}else S.msg='Could not save. Try again.';paint()})})}
+ inp.addEventListener('input',function(){S.dirty=inp.value.trim()!==eff();S.msg='';S.bad=false;paint()});
+ inp.addEventListener('keydown',function(ev){if(ev.key==='Enter'&&!sv.disabled){ev.preventDefault();write(inp.value)}});
+ sv.addEventListener('click',function(){write(inp.value)});
+ rs.addEventListener('click',function(){inp.value=DEF;S.dirty=false;write(DEF)});
+ var mkc=$('mk');if(mkc)mkc.addEventListener('change',function(){paint()});
+ (function(){var cl=window.claude;if(!cl||typeof cl.use!=='function'){S.pend=false;S.signed=false;S.edit=false;paint();return}
+  Promise.resolve().then(function(){return cl.use('user')}).then(function(u){return u&&typeof u==='object'?u:null},function(){return null}).then(function(u){var ce=null;if(u&&typeof u.canEdit==='function'){try{ce=u.canEdit()!==false}catch(e){ce=null}}S.signed=!!u;S.edit=u?(ce===null?true:ce):false;paint()});
+  Promise.resolve().then(function(){return cl.use('db')}).then(function(db){S.pend=false;if(db&&typeof db.doc==='function'){S.db=db;try{db.doc('settings/pricing').onSnapshot(function(s){S.doc=snapDoc(s);paint()},function(){S.msg='Could not read the saved source. Showing the default.';S.bad=true;paint()})}catch(e){}}paint()},function(){S.pend=false;paint()})})();
+ paint();
+ return{paint:paint,chk:chk,state:S}})()}catch(e){PRC=null}
 var XPAGE='chargeback';
 var XS=[
  {id:'chargeback',label:'Chargeback by protection group',text:function(){return csv0()}},
